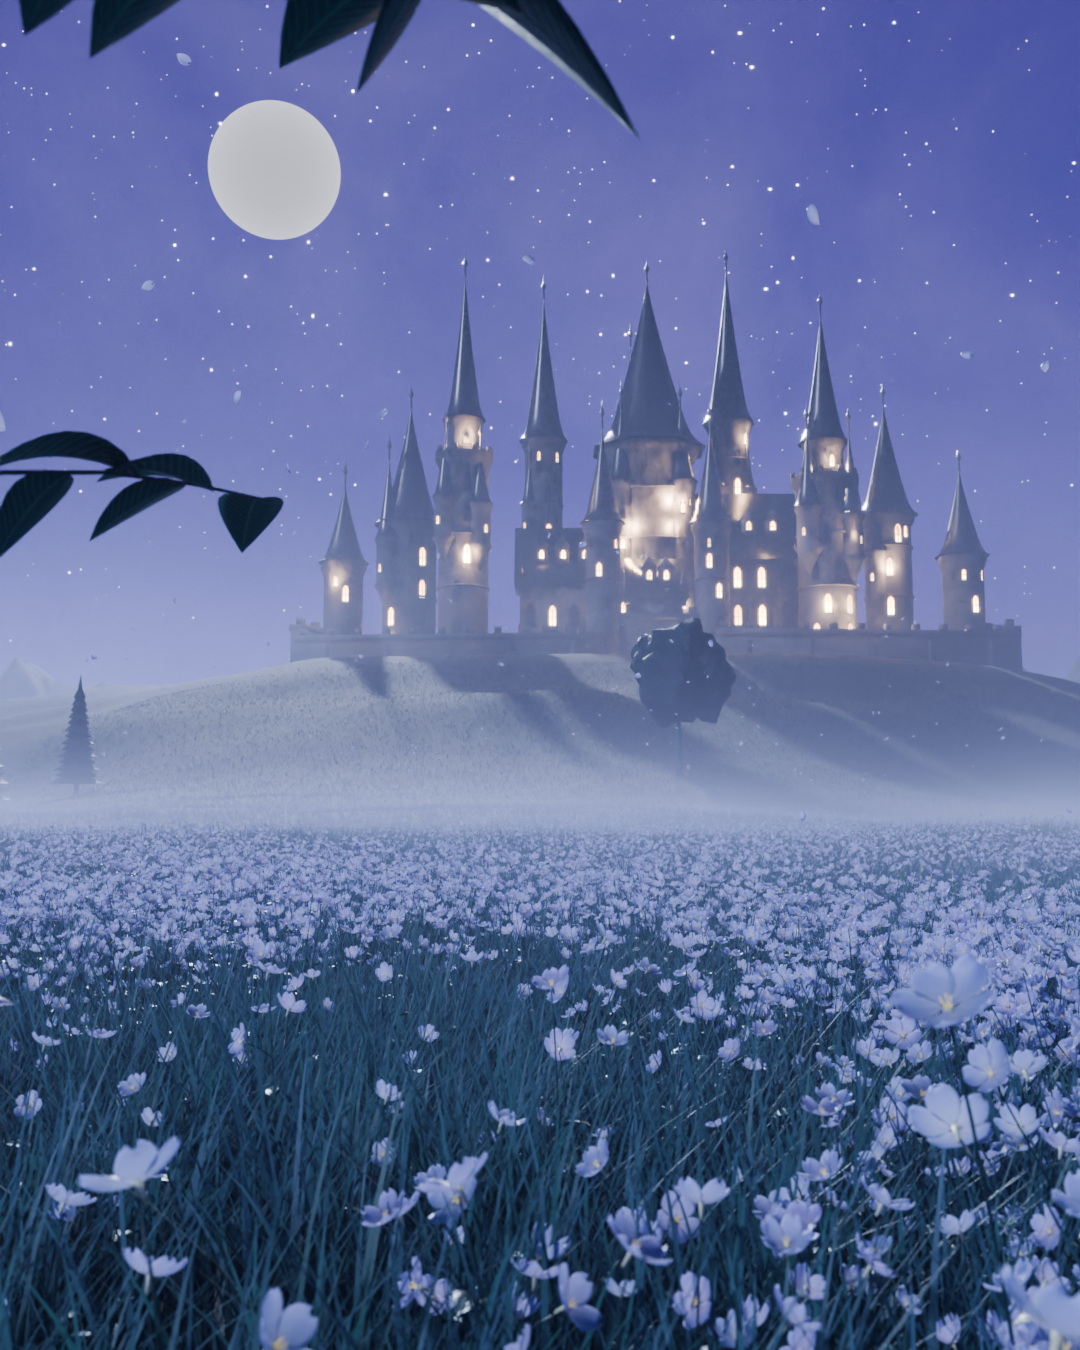
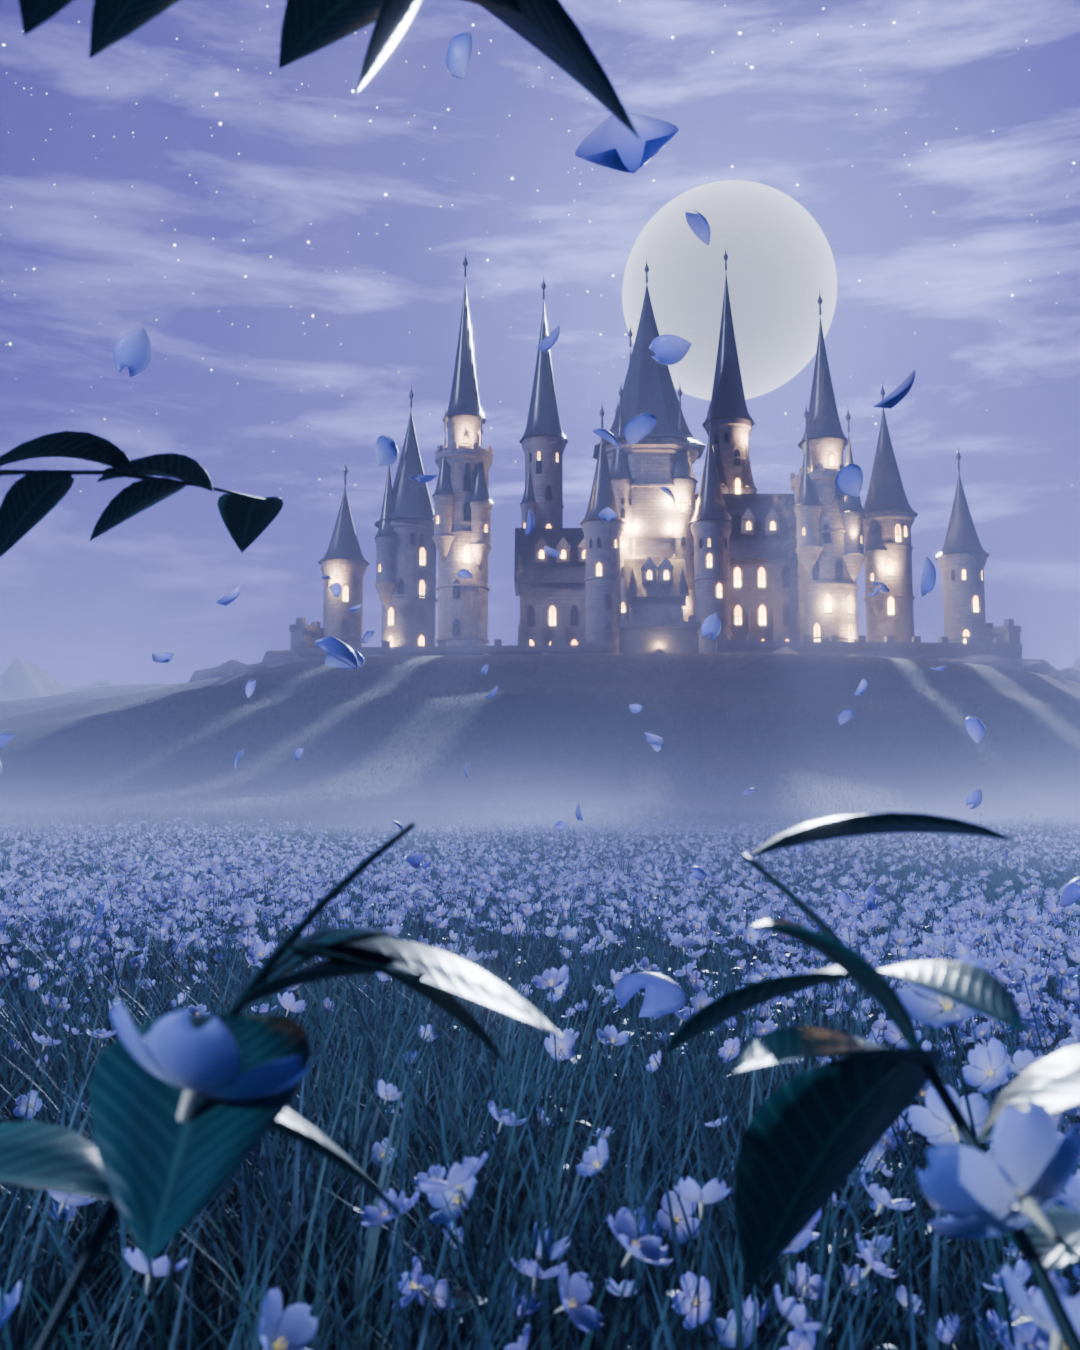
blender: Opus-review fixes (moon behind spires, petals, clouds, foreground framing) + new hero render
Claude-Session: https://claude.ai/code/session_01PAHJ45sohQfouzKmu2md3o

diff --git a/blender/moonlit-castle/build_scene.py b/blender/moonlit-castle/build_scene.py
@@ -18,8 +18,8 @@ if "--out" in sys.argv:
 # global layout constants
 # ----------------------------------------------------------------------------
 CX, CY = 28.0, 330.0                 # castle centre (x right, y away from camera)
-MOON_AZ, MOON_EL = math.radians(-12.0), math.radians(27.0)
-MOON_DIST, MOON_R = 4200.0, 4200.0 * math.tan(math.radians(2.6))
+MOON_AZ, MOON_EL = math.radians(8.5), math.radians(22.5)
+MOON_DIST, MOON_R = 4200.0, 4200.0 * math.tan(math.radians(4.4))
 CAM_Z = 0.95
 
 rng_global = np.random.default_rng(12345)
@@ -317,15 +317,17 @@ def mat_leaf(name="Leaf", base=(0.030, 0.120, 0.130)):
     return m
 
 
-def mat_petal(name="Petal"):
+def mat_petal(name="Petal", deep=False):
     m, nt = new_mat(name)
     uv = nd(nt, "ShaderNodeUVMap", uv_map="UV").outputs["UV"]
     u, v, _ = sepxyz(nt, uv)
     tint = attr_node(nt, "tint", "INSTANCER").outputs["Fac"]
     dv = mt(nt, "ABSOLUTE", mt(nt, "SUBTRACT", v, 0.5))
-    base = ramp(nt, u, [(0.0, (0.80, 0.78, 1.0)), (0.22, (0.80, 0.82, 1.0)), (0.6, (0.60, 0.66, 0.98)), (1.0, (0.42, 0.50, 0.95))])
+    base = ramp(nt, u, [(0.0, (0.86, 0.85, 1.0)), (0.2, (0.80, 0.83, 1.0)), (0.55, (0.52, 0.60, 0.99)), (1.0, (0.32, 0.43, 0.98))])
     tintc = mixc(nt, (0.88, 0.96, 1.0), (1.0, 0.86, 1.0), tint)
     col = mixc(nt, base, tintc, 1.0, blend="MULTIPLY")
+    if deep:
+        col = mixc(nt, col, (0.72, 0.76, 1.0), 1.0, blend="MULTIPLY")
     # darker violet star rays from the throat
     ray = mt(nt, "MULTIPLY", mt(nt, "SUBTRACT", 1.0, mt(nt, "MULTIPLY", dv, 11.0), clamp=True),
                mt(nt, "SUBTRACT", 1.0, mt(nt, "MULTIPLY", u, 2.4), clamp=True))
@@ -440,27 +442,61 @@ def mat_glass():
     return m
 
 
+def mat_rock():
+    m, nt = new_mat("Rock")
+    obj = texcoord(nt, "Object")
+    n1 = noise_tex(nt, obj, 0.25, 6, 0.6, 0.2)
+    n2 = noise_tex(nt, obj, 2.0, 6, 0.65)
+    col = ramp(nt, mt(nt, "ADD", n1, mt(nt, "MULTIPLY", n2, 0.4)), [(0.2, (0.05, 0.05, 0.075)), (0.55, (0.14, 0.14, 0.19)), (0.9, (0.25, 0.25, 0.33))])
+    ox, oy, oz = sepxyz(nt, obj)
+    col = mixc(nt, col, (0.02, 0.05, 0.05), mt(nt, "MULTIPLY", mt(nt, "SUBTRACT", 1.0, smooth_node(nt, oz, -2.0, 6.0), clamp=True), 0.8))
+    bump = nd(nt, "ShaderNodeBump"); bump.inputs["Strength"].default_value = 1.0; bump.inputs["Distance"].default_value = 0.5
+    lk(nt, out_sock(mt(nt, "ADD", n1, n2)), bump.inputs["Height"])
+    b = principled(nt, Base_Color=col, Roughness=0.85)
+    lk(nt, bump.outputs["Normal"], b.inputs["Normal"])
+    mat_output(nt, b)
+    return m
+
+
 def mat_moon():
     m, nt = new_mat("Moon")
     obj = texcoord(nt, "Object")
-    mare = ramp(nt, noise_tex(nt, obj, 1.6, 5, 0.6, 0.6), [(0.40, (1, 1, 1)), (0.60, (0.42, 0.45, 0.60))])
-    vor = nd(nt, "ShaderNodeTexVoronoi", voronoi_dimensions="3D")
-    lk(nt, out_sock(obj), vor.inputs["Vector"]); vor.inputs["Scale"].default_value = 7.0
-    vor2 = nd(nt, "ShaderNodeTexVoronoi", voronoi_dimensions="3D")
-    lk(nt, out_sock(obj), vor2.inputs["Vector"]); vor2.inputs["Scale"].default_value = 21.0
-    crater = mt(nt, "MULTIPLY", mt(nt, "SUBTRACT", 1.0, mt(nt, "MULTIPLY", mt(nt, "ABSOLUTE", mt(nt, "SUBTRACT", vor.outputs["Distance"], 0.32)), 8.0), clamp=True), 0.10)
-    crater2 = mt(nt, "MULTIPLY", mt(nt, "SUBTRACT", 1.0, mt(nt, "MULTIPLY", mt(nt, "ABSOLUTE", mt(nt, "SUBTRACT", vor2.outputs["Distance"], 0.3)), 9.0), clamp=True), 0.07)
-    fine = noise_tex(nt, obj, 30.0, 6)
-    col = mixc(nt, (0.58, 0.60, 0.70), (0.98, 0.98, 1.0), out_sock(mare))
-    col = mixc(nt, col, (1.0, 1.0, 1.0), mt(nt, "ADD", crater, crater2))
-    col = mixc(nt, col, (0.5, 0.52, 0.62), mt(nt, "MULTIPLY", mt(nt, "SUBTRACT", fine, 0.5), 0.8, clamp=True))
+    mare = ramp(nt, noise_tex(nt, obj, 1.5, 5, 0.6, 0.7), [(0.40, (1, 1, 1)), (0.56, (0.0, 0.0, 0.0))])
+    def craters(scale, thr, gain):
+        v = nd(nt, "ShaderNodeTexVoronoi", voronoi_dimensions="3D")
+        lk(nt, out_sock(obj), v.inputs["Vector"]); v.inputs["Scale"].default_value = scale
+        d = v.outputs["Distance"]
+        ring = mt(nt, "MULTIPLY", mt(nt, "SUBTRACT", 1.0, mt(nt, "MULTIPLY", mt(nt, "ABSOLUTE", mt(nt, "SUBTRACT", d, thr)), 14.0), clamp=True), gain)
+        floor = mt(nt, "MULTIPLY", mt(nt, "SUBTRACT", 1.0, mt(nt, "MULTIPLY", d, 1.0 / thr), clamp=True), gain * 1.1)
+        return mt(nt, "SUBTRACT", ring, floor)
+    cr = mt(nt, "ADD", mt(nt, "ADD", craters(6.0, 0.33, 0.30), craters(13.0, 0.30, 0.22)), craters(30.0, 0.30, 0.14))
+    fine = noise_tex(nt, obj, 40.0, 6)
+    hi = (0.90, 0.92, 1.0); lo = (0.28, 0.31, 0.50)
+    col = mixc(nt, hi, lo, mt(nt, "SUBTRACT", 1.0, out_sock(mare)))
+    col = mixc(nt, col, (1.0, 1.0, 1.0), mt(nt, "MULTIPLY", mt(nt, "MAXIMUM", cr, 0.0), 1.0, clamp=True))
+    col = mixc(nt, col, (0.30, 0.33, 0.50), mt(nt, "MULTIPLY", mt(nt, "MAXIMUM", mt(nt, "MULTIPLY", cr, -1.0), 0.0), 1.0, clamp=True))
+    col = mixc(nt, col, (0.45, 0.48, 0.62), mt(nt, "MULTIPLY", mt(nt, "SUBTRACT", fine, 0.5), 0.9, clamp=True))
     lw = nd(nt, "ShaderNodeLayerWeight"); lw.inputs["Blend"].default_value = 0.5
-    limb = mt(nt, "SUBTRACT", 1.0, mt(nt, "MULTIPLY", lw.outputs["Facing"], 0.0))
-    face = mt(nt, "ADD", 0.55, mt(nt, "MULTIPLY", mt(nt, "SUBTRACT", 1.0, lw.outputs["Facing"]), -0.5))
     em = nd(nt, "ShaderNodeEmission")
     lk(nt, out_sock(col), em.inputs["Color"])
-    lk(nt, out_sock(mt(nt, "MULTIPLY", mt(nt, "ADD", 0.65, mt(nt, "MULTIPLY", lw.outputs["Facing"], 0.35)), 1.0)), em.inputs["Strength"])
+    lk(nt, out_sock(mt(nt, "MULTIPLY", mt(nt, "ADD", 0.45, mt(nt, "MULTIPLY", lw.outputs["Facing"], 0.55)), 2.1)), em.inputs["Strength"])
     mat_output(nt, em)
+    return m
+
+
+def mat_moon_halo():
+    m, nt = new_mat("MoonHalo")
+    obj = texcoord(nt, "Object")
+    x, y, z = sepxyz(nt, obj)
+    r = mt(nt, "SQRT", mt(nt, "ADD", mt(nt, "MULTIPLY", x, x), mt(nt, "MULTIPLY", y, y)))
+    f = mt(nt, "POWER", mt(nt, "SUBTRACT", 1.0, r, clamp=True), 2.6)
+    em = nd(nt, "ShaderNodeEmission"); em.inputs["Color"].default_value = (0.45, 0.50, 1.0, 1)
+    em.inputs["Strength"].default_value = 0.7
+    tr = nd(nt, "ShaderNodeBsdfTransparent")
+    mx = nd(nt, "ShaderNodeMixShader")
+    lk(nt, out_sock(mt(nt, "MULTIPLY", f, 0.55)), mx.inputs["Fac"])
+    lk(nt, tr.outputs[0], mx.inputs[1]); lk(nt, em.outputs[0], mx.inputs[2])
+    mat_output(nt, mx)
     return m
 
 
@@ -485,6 +521,23 @@ def build_world():
     haze = mt(nt, "MULTIPLY", mt(nt, "MULTIPLY", band, mt(nt, "SUBTRACT", cloud, 0.35, clamp=True)), mt(nt, "MULTIPLY", z, 3.0, clamp=True))
     skyc = mixc(nt, sky, (0.55, 0.45, 1.0), mt(nt, "MULTIPLY", haze, 0.55))
     # wispy high cloud near the moon side
+    # soft glow around the moon + thin cirrus bands lit by it
+    mv = (math.sin(MOON_AZ) * math.cos(MOON_EL), math.cos(MOON_AZ) * math.cos(MOON_EL), math.sin(MOON_EL))
+    dm = nd(nt, "ShaderNodeVectorMath", operation="DOT_PRODUCT")
+    lk(nt, d.outputs[0], dm.inputs[0]); dm.inputs[1].default_value = mv
+    ang = mt(nt, "ARCCOSINE", mt(nt, "MINIMUM", dm.outputs["Value"], 1.0))
+    def gl(w):
+        q = mt(nt, "DIVIDE", ang, w)
+        return mt(nt, "EXPONENT", mt(nt, "MULTIPLY", mt(nt, "MULTIPLY", q, q), -1.0))
+    glow = mt(nt, "ADD", mt(nt, "MULTIPLY", gl(0.16), 0.55), mt(nt, "MULTIPLY", gl(0.55), 0.30))
+    skyc = mixc(nt, skyc, (0.32, 0.36, 0.95), glow, blend="ADD")
+    cc = nd(nt, "ShaderNodeCombineXYZ")
+    lk(nt, out_sock(mt(nt, "MULTIPLY", dx, 2.2)), cc.inputs["X"]); lk(nt, out_sock(mt(nt, "MULTIPLY", dy, 2.2)), cc.inputs["Y"])
+    lk(nt, out_sock(mt(nt, "MULTIPLY", dz, 11.0)), cc.inputs["Z"])
+    cl = ramp(nt, noise_tex(nt, cc.outputs[0], 2.4, 5, 0.6, 0.3), [(0.50, (0, 0, 0)), (0.72, (1, 1, 1))])
+    elev = mt(nt, "MULTIPLY", smooth_node(nt, dz, 0.06, 0.22), mt(nt, "SUBTRACT", 1.0, smooth_node(nt, dz, 0.5, 0.95)))
+    cmask = mt(nt, "MULTIPLY", out_sock(cl), elev)
+    skyc = mixc(nt, skyc, (0.42, 0.44, 0.95), mt(nt, "MULTIPLY", cmask, mt(nt, "ADD", 0.12, mt(nt, "MULTIPLY", glow, 2.2), clamp=True)), blend="ADD")
     # stars
     def stars(scale, thresh, power, gain):
         v = nd(nt, "ShaderNodeTexVoronoi", voronoi_dimensions="3D")
@@ -495,7 +548,7 @@ def build_world():
         sel = mt(nt, "GREATER_THAN", sx, thresh)
         return mt(nt, "MULTIPLY", mt(nt, "MULTIPLY", pt, sel), mt(nt, "MULTIPLY", sy, gain))
     st = mt(nt, "ADD", stars(110.0, 0.80, 3.0, 60.0), stars(240.0, 0.82, 3.0, 40.0))
-    st = mt(nt, "MULTIPLY", st, mt(nt, "SUBTRACT", smooth_node(nt, dz, 0.03, 0.35), 0.0))
+    st = mt(nt, "MULTIPLY", st, mt(nt, "SUBTRACT", smooth_node(nt, dz, 0.14, 0.55), 0.0))
     starc = mixc(nt, (0.85, 0.9, 1.0), (1.0, 0.92, 0.82), 0.3)
     sc = nd(nt, "ShaderNodeVectorMath", operation="SCALE")
     lk(nt, out_sock(starc), sc.inputs[0]); lk(nt, out_sock(st), sc.inputs["Scale"])
@@ -826,12 +879,38 @@ def build_castle(mats):
         for k in range(int(L // 14)):
             q = p0 + (p1 - p0) * ((k + 0.5) / max(1, int(L // 14)))
             box(mb, q.x, q.y - 1.2, -10, 2.0, 2.6, 10 + h * 0.8, ST, rot=ang, taper=0.6)
-    wall((-86, -20), (-13, -26), 11)
-    wall((13, -26), (86, -20), 12)
-    wall((-13, -22), (13, -22), 16, 4)
+    wall((-86, -20), (-13, -26), 8)
+    wall((13, -26), (86, -20), 9)
+    wall((-13, -22), (13, -22), 14, 4)
     wall((-86, -20), (-76, 4), 14); wall((86, -18), (76, 4), 14)
     # gate arch (dark recess)
     window(mb, (0, -22 - 2.0), (0, -1), -1.0, 4.2, 5.0, 0.0, r, GL, DK, ST)
+    # --- irregular rocky foundation: boulders half-buried along the wall bases ---
+    RK = 5
+    def boulder(cx, cy, cz, rad, seed):
+        rr = np.random.default_rng(seed)
+        res = bmesh.ops.create_icosphere(mb.bm, subdivisions=2, radius=1.0)
+        ph = rr.uniform(0, 6.28, 3)
+        for v in res["verts"]:
+            d = v.co.normalized()
+            f = 1.0 + 0.30 * math.sin(d.x * 3.1 + ph[0]) * math.cos(d.z * 2.7 + ph[1]) + 0.18 * math.sin(d.y * 5.3 + ph[2]) + rr.normal(0, 0.05)
+            v.co = Vector((cx + d.x * rad * f * 1.25, cy + d.y * rad * f, cz + d.z * rad * f * 0.65))
+        for f in set(f for v in res["verts"] for f in v.link_faces):
+            f.material_index = RK; f.smooth = True
+    def yline(x):
+        ax = abs(x)
+        return -22.0 if ax < 13 else -26.0 + 6.0 * min(1.0, (ax - 13) / 73.0)
+    k = 0
+    for x in np.arange(-100, 101, 4.5):
+        if abs(x) < 7:
+            continue
+        k += 1
+        boulder(x + r.uniform(-1.5, 1.5), yline(x) - r.uniform(2.0, 5.0), r.uniform(-1.5, 1.8), r.uniform(3.0, 7.0), 900 + k)
+        if r.random() < 0.7:
+            boulder(x + r.uniform(-2, 2), yline(x) - r.uniform(7.0, 11.0), r.uniform(-2.5, 0.2), r.uniform(2.0, 4.5), 1900 + k)
+    for sgn in (-1, 1):                      # flanks
+        for j in range(8):
+            boulder(sgn * (92 + r.uniform(0, 8)), -14 + j * 5.0 + r.uniform(-1, 1), r.uniform(-2, 1), r.uniform(3, 6), 2900 + j + 10 * sgn)
     # --- final object ---
     obj = mb.finish("Castle", mats, sharp_angle=38.0)
     obj.location = (CX, CY, Z0)
@@ -1193,7 +1272,8 @@ def main():
 
     MATS["ground"] = mat_ground(); MATS["grass"] = mat_grass(); MATS["leaf"] = mat_leaf()
     MATS["petal"] = mat_petal(); MATS["stone"] = mat_stone(); MATS["slate"] = mat_slate()
-    MATS["glass"] = mat_glass(); MATS["moon"] = mat_moon()
+    MATS["glass"] = mat_glass(); MATS["moon"] = mat_moon(); MATS["halo"] = mat_moon_halo()
+    MATS["fpetal"] = mat_petal("FloatPetal", deep=True); MATS["rock"] = mat_rock()
     MATS["dark"] = mat_simple("DarkRecess", (0.012, 0.014, 0.028), 0.6)
     MATS["metal"] = mat_simple("RoofMetal", (0.12, 0.13, 0.2), 0.3)
     MATS["stem"] = mat_leaf("Stem", (0.03, 0.10, 0.10))
@@ -1219,7 +1299,7 @@ def main():
     sc.collection.objects.link(terrain)
 
     # ---------------- castle ----------------
-    castle = build_castle([MATS["stone"], MATS["slate"], MATS["glass"], MATS["dark"], MATS["metal"]])
+    castle = build_castle([MATS["stone"], MATS["slate"], MATS["glass"], MATS["dark"], MATS["metal"], MATS["rock"]])
 
     # ---------------- assets ----------------
     mats_flower = [MATS["petal"], MATS["stem"], MATS["leaf"], MATS["stamen"], MATS["throat"]]
@@ -1227,7 +1307,7 @@ def main():
     for f in flowers:
         solidify(f, 0.00022)
     grasses = [build_grass_asset(f"GrassAsset{k}", 40 + k, MATS["grass"]) for k in range(3)]
-    petal_assets = [build_petal_asset(f"PetalAsset{k}", MATS["petal"], 60 + k) for k in range(2)]
+    petal_assets = [build_petal_asset(f"PetalAsset{k}", MATS["fpetal"], 60 + k) for k in range(2)]
     for p in petal_assets:
         solidify(p, 0.0002)
     c_flow = make_collection("ASSET_Flowers", flowers)
@@ -1264,16 +1344,17 @@ def main():
                             np.stack([tilt[:, 0], tilt[:, 1], rnd.uniform(0, 6.28, N_FLOW)], 1),
                             np.stack([fsc, fsc, fsc * rnd.uniform(0.85, 1.2, N_FLOW)], 1), rnd.random(N_FLOW))
     # ---------------- floating petals + motes ----------------
-    N_PET = 260
-    px = rnd.uniform(-9, 14, N_PET) * (1 + rnd.random(N_PET) * 0.8); py = rnd.uniform(1.2, 55, N_PET)
-    pz = ground_z(px, py) + rnd.uniform(0.25, 6.0, N_PET)
-    ps = rnd.uniform(1.0, 2.2, N_PET)
+    N_PET = 80
+    px = rnd.uniform(-3.2, 4.6, N_PET); py = rnd.uniform(1.4, 15.0, N_PET)
+    pz = ground_z(px, py) + rnd.uniform(0.35, 3.4, N_PET)
+    ps = rnd.uniform(2.0, 4.0, N_PET) * np.where(py < 3.0, 1.5, 1.0)
     pet_obj = make_scatter("FloatingPetals", c_pet, np.stack([px, py, pz], 1), rnd.integers(0, 2, N_PET),
                            rnd.uniform(0, 6.28, (N_PET, 3)), np.stack([ps, ps, ps], 1), rnd.random(N_PET))
     # hand placed hero flowers close to the lens
     hero = []
     HF = [(0.34, 1.05, 0, 1.7, 0.25), (-0.30, 1.35, 2, 1.5, -0.2), (0.08, 0.78, 1, 1.35, 0.9), (-0.55, 0.9, 0, 1.6, 2.3),
-          (0.62, 1.7, 2, 1.8, 1.4), (-0.08, 2.1, 1, 1.5, 4.0), (0.95, 0.85, 1, 1.4, 3.1)]
+          (0.62, 1.7, 2, 1.8, 1.4), (-0.08, 2.1, 1, 1.5, 4.0), (0.95, 0.85, 1, 1.4, 3.1),
+          (-0.30, 0.95, 0, 2.3, 0.7), (0.34, 0.92, 2, 2.2, 2.0), (-0.62, 1.5, 1, 1.9, 5.0)]
     for k, (hx, hy, var, sc_, rz) in enumerate(HF):
         o = bpy.data.objects.new(f"HeroFlower{k}", flowers[var].data)
         sc.collection.objects.link(o)
@@ -1285,12 +1366,12 @@ def main():
 
     # ---------------- trees (dark silhouettes on the hills / valley sides) ----------------
     MATS["foliage"] = mat_foliage()
-    trees = [build_tree_asset(f"TreeAsset{k}", k % 2, 300 + k, [MATS["stem"], MATS["foliage"]]) for k in range(4)]
+    trees = [build_tree_asset(f"TreeAsset{k}", 1, 300 + k, [MATS["stem"], MATS["foliage"]]) for k in range(4)]
     c_tree = make_collection("ASSET_Trees", trees)
     def dens_tree(X, Y):
         rc = np.hypot((X - CX) * 0.85, Y - CY)
         forest = smooth(0.50, 0.62, NZ[3].fbm(X / 90.0 + 9, Y / 90.0, 3))
-        far = forest * smooth(170, 240, rc) * smooth(110, 200, Y) * (1 - smooth(900, 1500, Y)) * 0.05
+        far = forest * smooth(260, 340, rc) * smooth(110, 200, Y) * (1 - smooth(900, 1500, Y)) * 0.05
         side = smooth(0.45, 0.6, NZ[2].fbm(X / 40.0, Y / 40.0 + 4, 3)) * smooth(55, 95, np.abs(X)) * smooth(25, 60, Y) * (1 - smooth(110, 200, Y)) * 0.02
         return far + side
     N_TREE = 3500
@@ -1304,6 +1385,9 @@ def main():
     br1 = build_branch("FG_Branch0", [MATS["stem"], MATS["leaf"]], 5, (-0.8, 0.6, 1.4), (-0.02, 1.5, 1.95), 0.12, 22)
     br2 = build_branch("FG_Branch1", [MATS["stem"], MATS["leaf"]], 6, (-1.3, 1.1, 0.85), (-0.5, 2.4, 1.55), 0.2, 20)
 
+    build_branch("FG_LeavesL", [MATS["stem"], MATS["leaf"]], 7, (-0.40, 0.9, 0.45), (-0.12, 1.25, 0.95), 0.08, 9)
+    build_branch("FG_LeavesR", [MATS["stem"], MATS["leaf"]], 8, (0.42, 0.9, 0.45), (0.2, 1.3, 0.92), 0.08, 9)
+
     # ---------------- moon + lights ----------------
     mdir = Vector((math.sin(MOON_AZ) * math.cos(MOON_EL), math.cos(MOON_AZ) * math.cos(MOON_EL), math.sin(MOON_EL)))
     bpy.ops.mesh.primitive_uv_sphere_add(segments=96, ring_count=48, radius=MOON_R, location=mdir * MOON_DIST)
@@ -1314,6 +1398,12 @@ def main():
     moon.data.materials.append(MATS["moon"])
     moon.visible_shadow = False
     moon.visible_glossy = False
+    bpy.ops.mesh.primitive_plane_add(size=2.0, location=mdir * (MOON_DIST - 60))
+    halo = bpy.context.object; halo.name = "MoonHalo"
+    halo.scale = (MOON_R * 5.0, MOON_R * 5.0, 1)
+    halo.rotation_euler = (-mdir).to_track_quat("Z", "Y").to_euler()
+    halo.data.materials.append(MATS["halo"])
+    halo.visible_shadow = False; halo.visible_glossy = False; halo.visible_diffuse = False
 
     def sun(name, direction_to, strength, color, angle_deg, shadow=True):
         ld = bpy.data.lights.new(name, "SUN")
@@ -1402,10 +1492,10 @@ def main():
     hero_cam = make_cam("CAM_HERO", (0, 0, CAM_Z), (90 + 6.5, 0, 0), 35, 5.6, 9.5)
     wide_cam = make_cam("CAM_WIDE", (-6, -4, 1.8), (90 + 4.5, 0, -5), 24, 8.0, 14.0, "HORIZONTAL")
     wide_cam.data.sensor_width = 36.0
-    fly = make_cam("CAM_FLY", (0.2, -3.0, 0.55), (90 + 3.0, 0, 0), 32, 5.6, 8.0)
+    fly = make_cam("CAM_FLY", (0.2, 1.0, 0.6), (90 + 3.0, 0, 0), 32, 5.6, 8.0)
     sc.camera = hero_cam
     sc.frame_start, sc.frame_end, sc.render.fps = 1, 144, 24
-    for fr, loc, rot, lens, foc in ((1, (0.2, -3.0, 0.55), (93.0, 0, 0.0), 32, 6.5),
+    for fr, loc, rot, lens, foc in ((1, (0.2, 1.0, 0.6), (93.0, 0, 0.0), 32, 6.5),
                                     (144, (-0.4, 20.0, 1.55), (98.0, 0, -2.0), 35, 14.0)):
         fly.location = loc
         fly.rotation_euler = tuple(math.radians(a) for a in rot)

diff --git a/blender/moonlit-castle/render.py b/blender/moonlit-castle/render.py
@@ -1,6 +1,6 @@
 """Render the moonlit castle scene.
 
-  python render.py hero|wide|clay|flyby|all [--quick]
+  python render.py hero|wide|clay|flyby|all [--quick] [--force]
 
 Outputs go to renders/ (hero.png, wide.png, clay.png, flyby.mp4).
 Frames of the fly-through are kept in renders/_frames/ (git-ignored); frames that
@@ -42,6 +42,9 @@ def setup(cam, w, h, spp, thr=0.02, fmt="PNG"):
 
 
 def still(name):
+    if os.path.exists(os.path.join(R, name)) and "--force" not in sys.argv:
+        print(f"SKIP {name} (exists, use --force)", flush=True)
+        return
     sc.render.filepath = os.path.join(R, name)
     t = time.time()
     bpy.ops.render.render(write_still=True)
@@ -49,7 +52,7 @@ def still(name):
 
 
 if "hero" in what or "all" in what:
-    setup("CAM_HERO", 1080, 1350, 24 if QUICK else 160, 0.012)
+    setup("CAM_HERO", 1080, 1350, 24 if QUICK else 128, 0.012)
     still("hero.png")
 
 if "wide" in what or "all" in what:
@@ -62,19 +65,19 @@ if "clay" in what or "all" in what:
     clay.node_tree.nodes["Principled BSDF"].inputs["Base Color"].default_value = (0.78, 0.78, 0.80, 1)
     clay.node_tree.nodes["Principled BSDF"].inputs["Roughness"].default_value = 0.9
     sc.view_layers[0].material_override = clay
-    for n in ("HazeBox", "ValleyMist", "MeadowMist"):
+    for n in ("HazeBox", "ValleyMist", "MeadowMist", "MoonHalo"):
         bpy.data.objects[n].hide_render = True
     setup("CAM_HERO", 1080, 1350, 16 if QUICK else 64, 0.02)
     still("clay.png")
     sc.view_layers[0].material_override = None
-    for n in ("HazeBox", "ValleyMist", "MeadowMist"):
+    for n in ("HazeBox", "ValleyMist", "MeadowMist", "MoonHalo"):
         bpy.data.objects[n].hide_render = False
 
 if "flyby" in what or "all" in what:
     fd = os.path.join(R, "_frames")
     os.makedirs(fd, exist_ok=True)
     bpy.data.objects["MeadowMist"].hide_render = True     # volume cost; haze + valley mist stay
-    setup("CAM_FLY", 400, 500, 8, 0.03)
+    setup("CAM_FLY", 540, 675, 12, 0.03)
     cy.use_denoising = True
     total = sc.frame_end
     for f in range(sc.frame_start, total + 1):

diff --git a/blender/moonlit-castle/README.md b/blender/moonlit-castle/README.md
@@ -27,7 +27,7 @@
 | `renders/hero.png` | Негізгі кадр 1080×1350 |
 | `renders/wide.png` | Кең кадр 1600×900 |
 | `renders/clay.png` | Ақ саз (clay) нұсқа, модельдеу сапасын көрсетеді |
-| `renders/flyby.mp4` | Гүлдер үстімен ұшу, 400×500, 24 fps |
+| `renders/flyby.mp4` | Гүлдер үстімен ұшу, 540×675, 24 fps |
 | `renders/iterations/` | Сапа циклінің аралық кішкентай JPG-лері |
 | `renders/_frames/` | Видео кадрлары (git-ке кірмейді) |
 
@@ -58,5 +58,5 @@ cd blender/moonlit-castle
 - Мұнаралардың тас өрімі hero кадрда әрең көрінеді (сарай 330 м қашықта). Микро-дисплейсмент орнына bump қолданылған.
 - Ағаштар жеңілдетілген (блоб және конус), алыстағы гүлдер жеке-жеке емес, жер шейдеріндегі дақ ретінде берілген.
 - Жапырақшалар бейнеде тек бір бағытқа бірқалыпты жылжиды, жеке желмен тербелмейді.
-- Видео төмен ажыратымдылықта (400×500) және аз сэмплмен рендерленді, ал көлемді тұман (жердегі жұқа қабат) видеода өшірілген.
+- Видео төмен ажыратымдылықта (540×675) және аз сэмплмен рендерленді, ал көлемді тұман (жердегі жұқа қабат) видеода өшірілген.
 - Сурет референс панельдің көңіл-күйін қайталайды, бірақ кейіпкерлер мен нақты сарай дизайны көшірілмеген.

diff --git a/README.md b/README.md
@@ -8,6 +8,7 @@
 | Идеялар банкі: вирустық видеолар талдауы, 28 анимация комбосы, кітапханалар | [`ideas/`](ideas/README.md) | «Комбо зертханасы» |
 | География · Жердің төрт қабығы: литосфера, гидросфера, атмосфера, биосфера (3D әлем, three.js) | [`geo/`](geo/README.md) | «Жердің төрт қабығы» |
 | Корей стиліндегі интерактив веб-манхва: гравюра шейдері, OpenMontage 3D фондар мен кейіпкер rig-тері, трейлер | [`manhwa/`](manhwa/README.md) | «목판 · MOKPAN — Қызыл айдың оюшысы» |
+| 3D рендер: ай нұрындағы готикалық сарай және гүлді алқап (Blender bpy, Cycles) | [`blender/moonlit-castle/`](blender/moonlit-castle/README.md) | «Ай нұрындағы сарай» |
 
 ---
 
